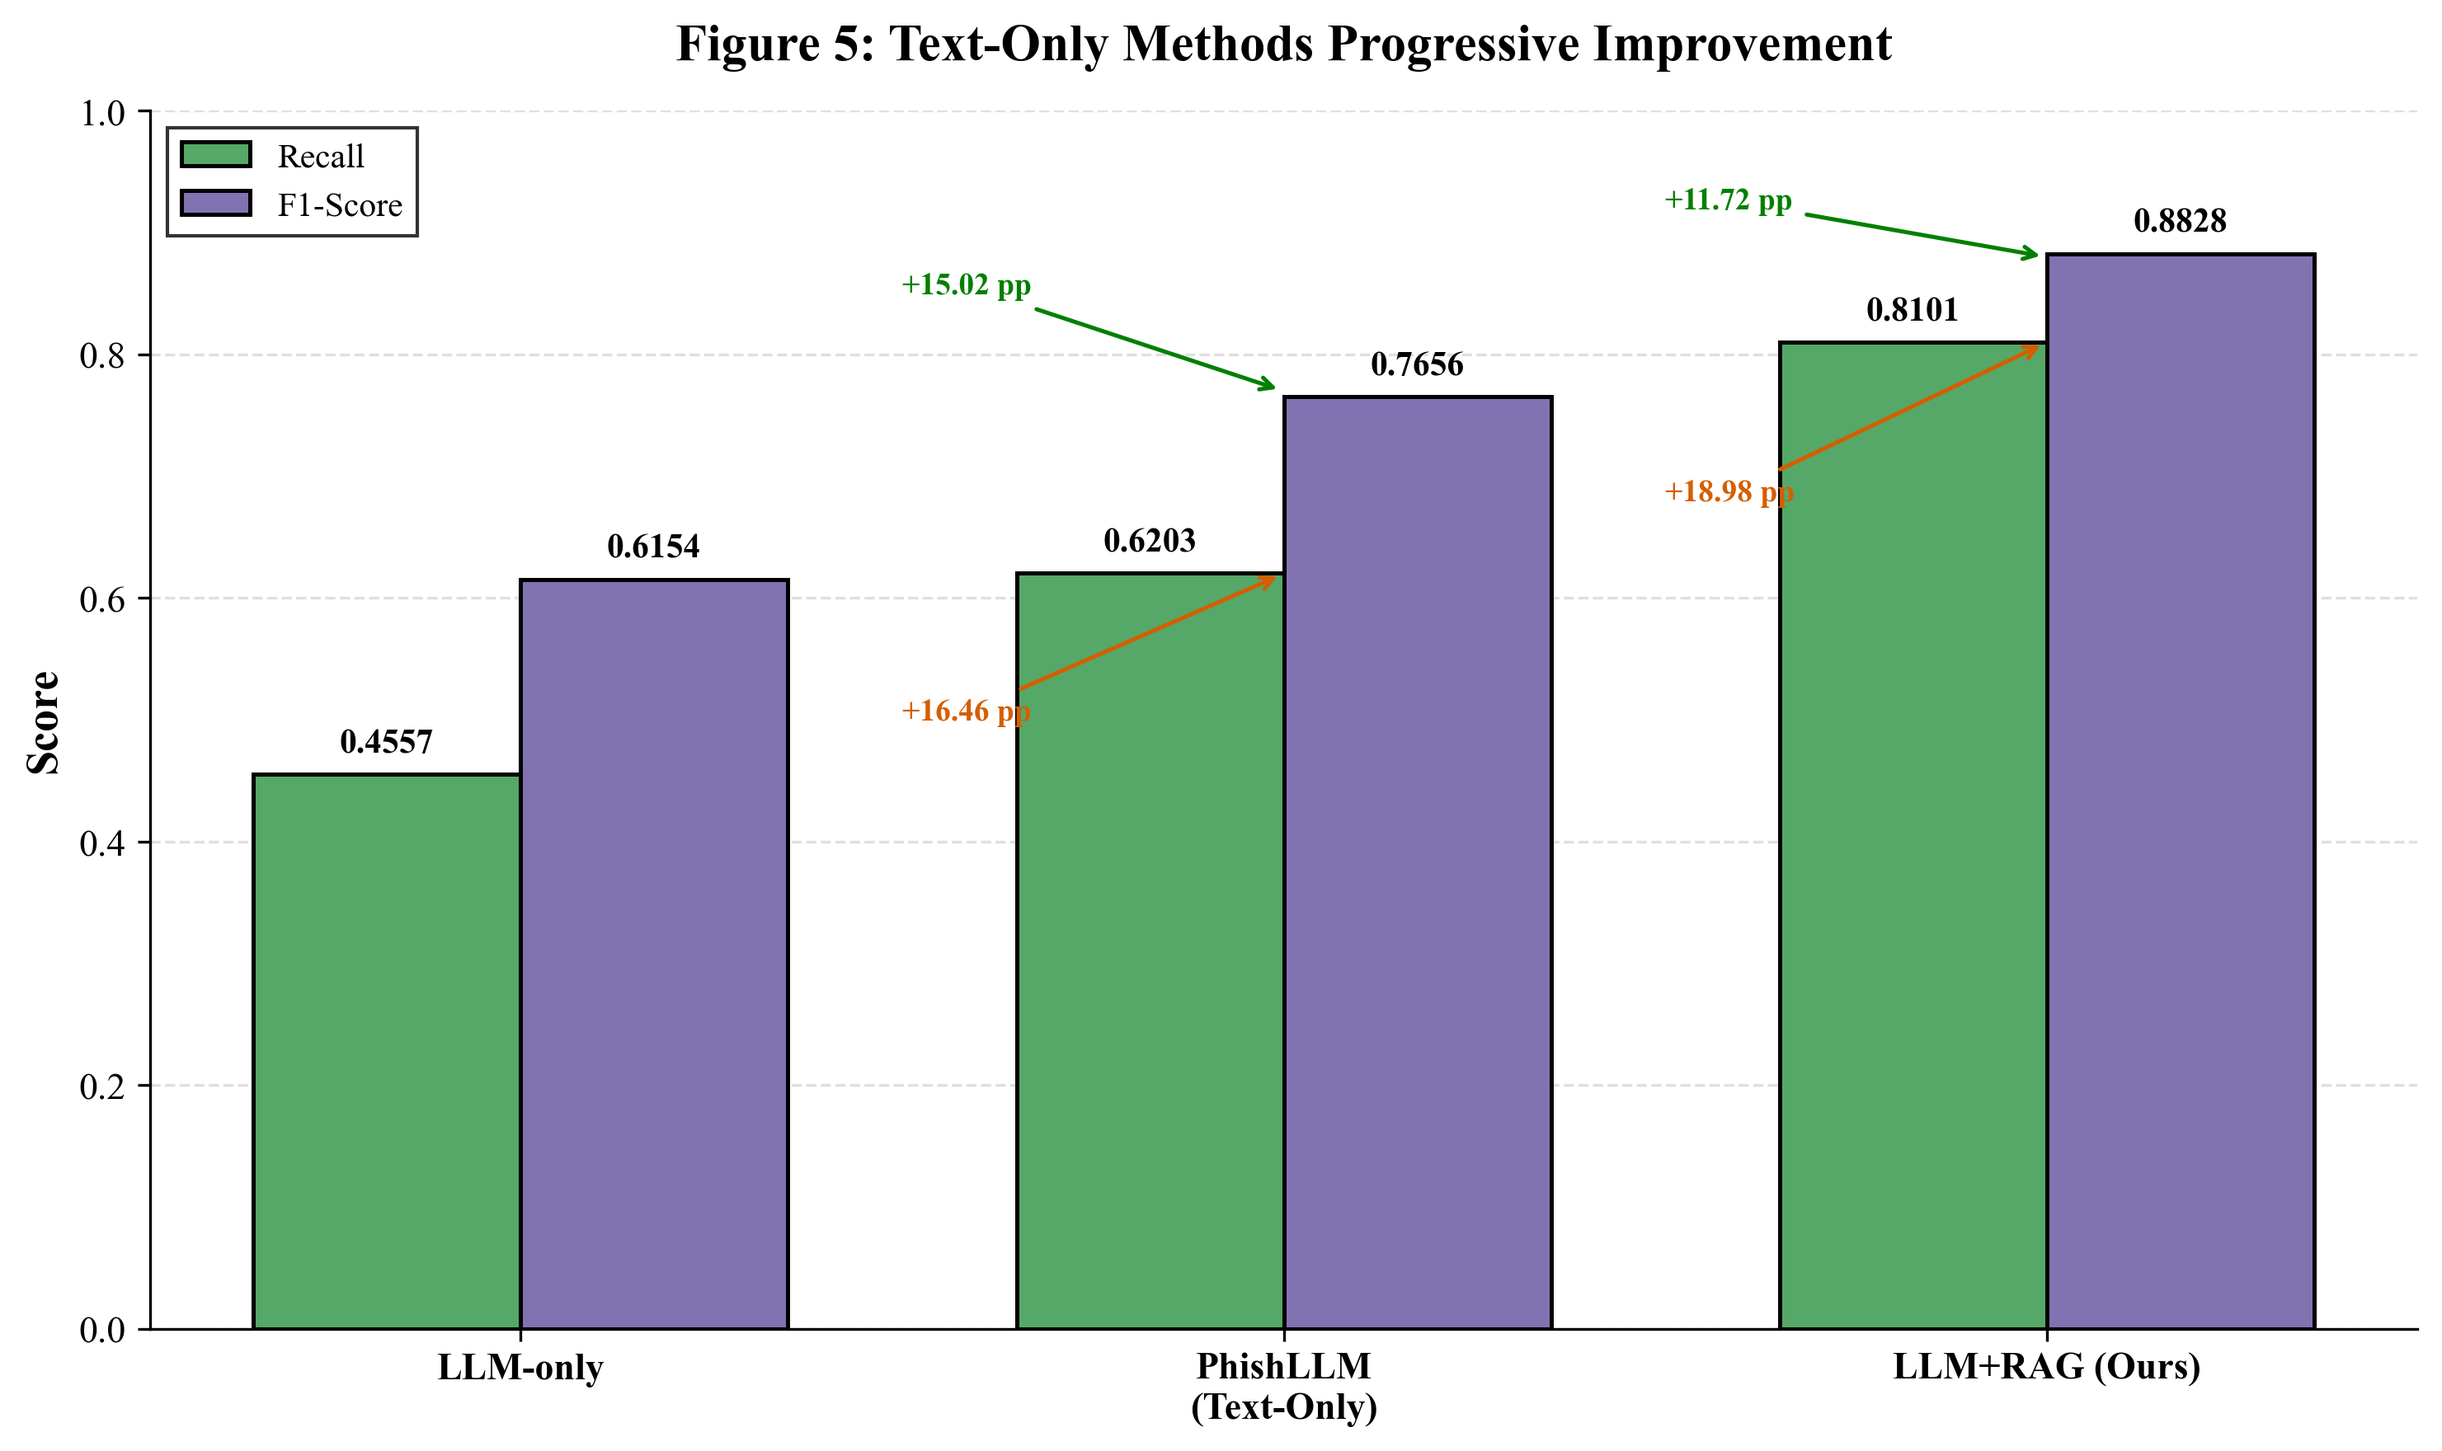
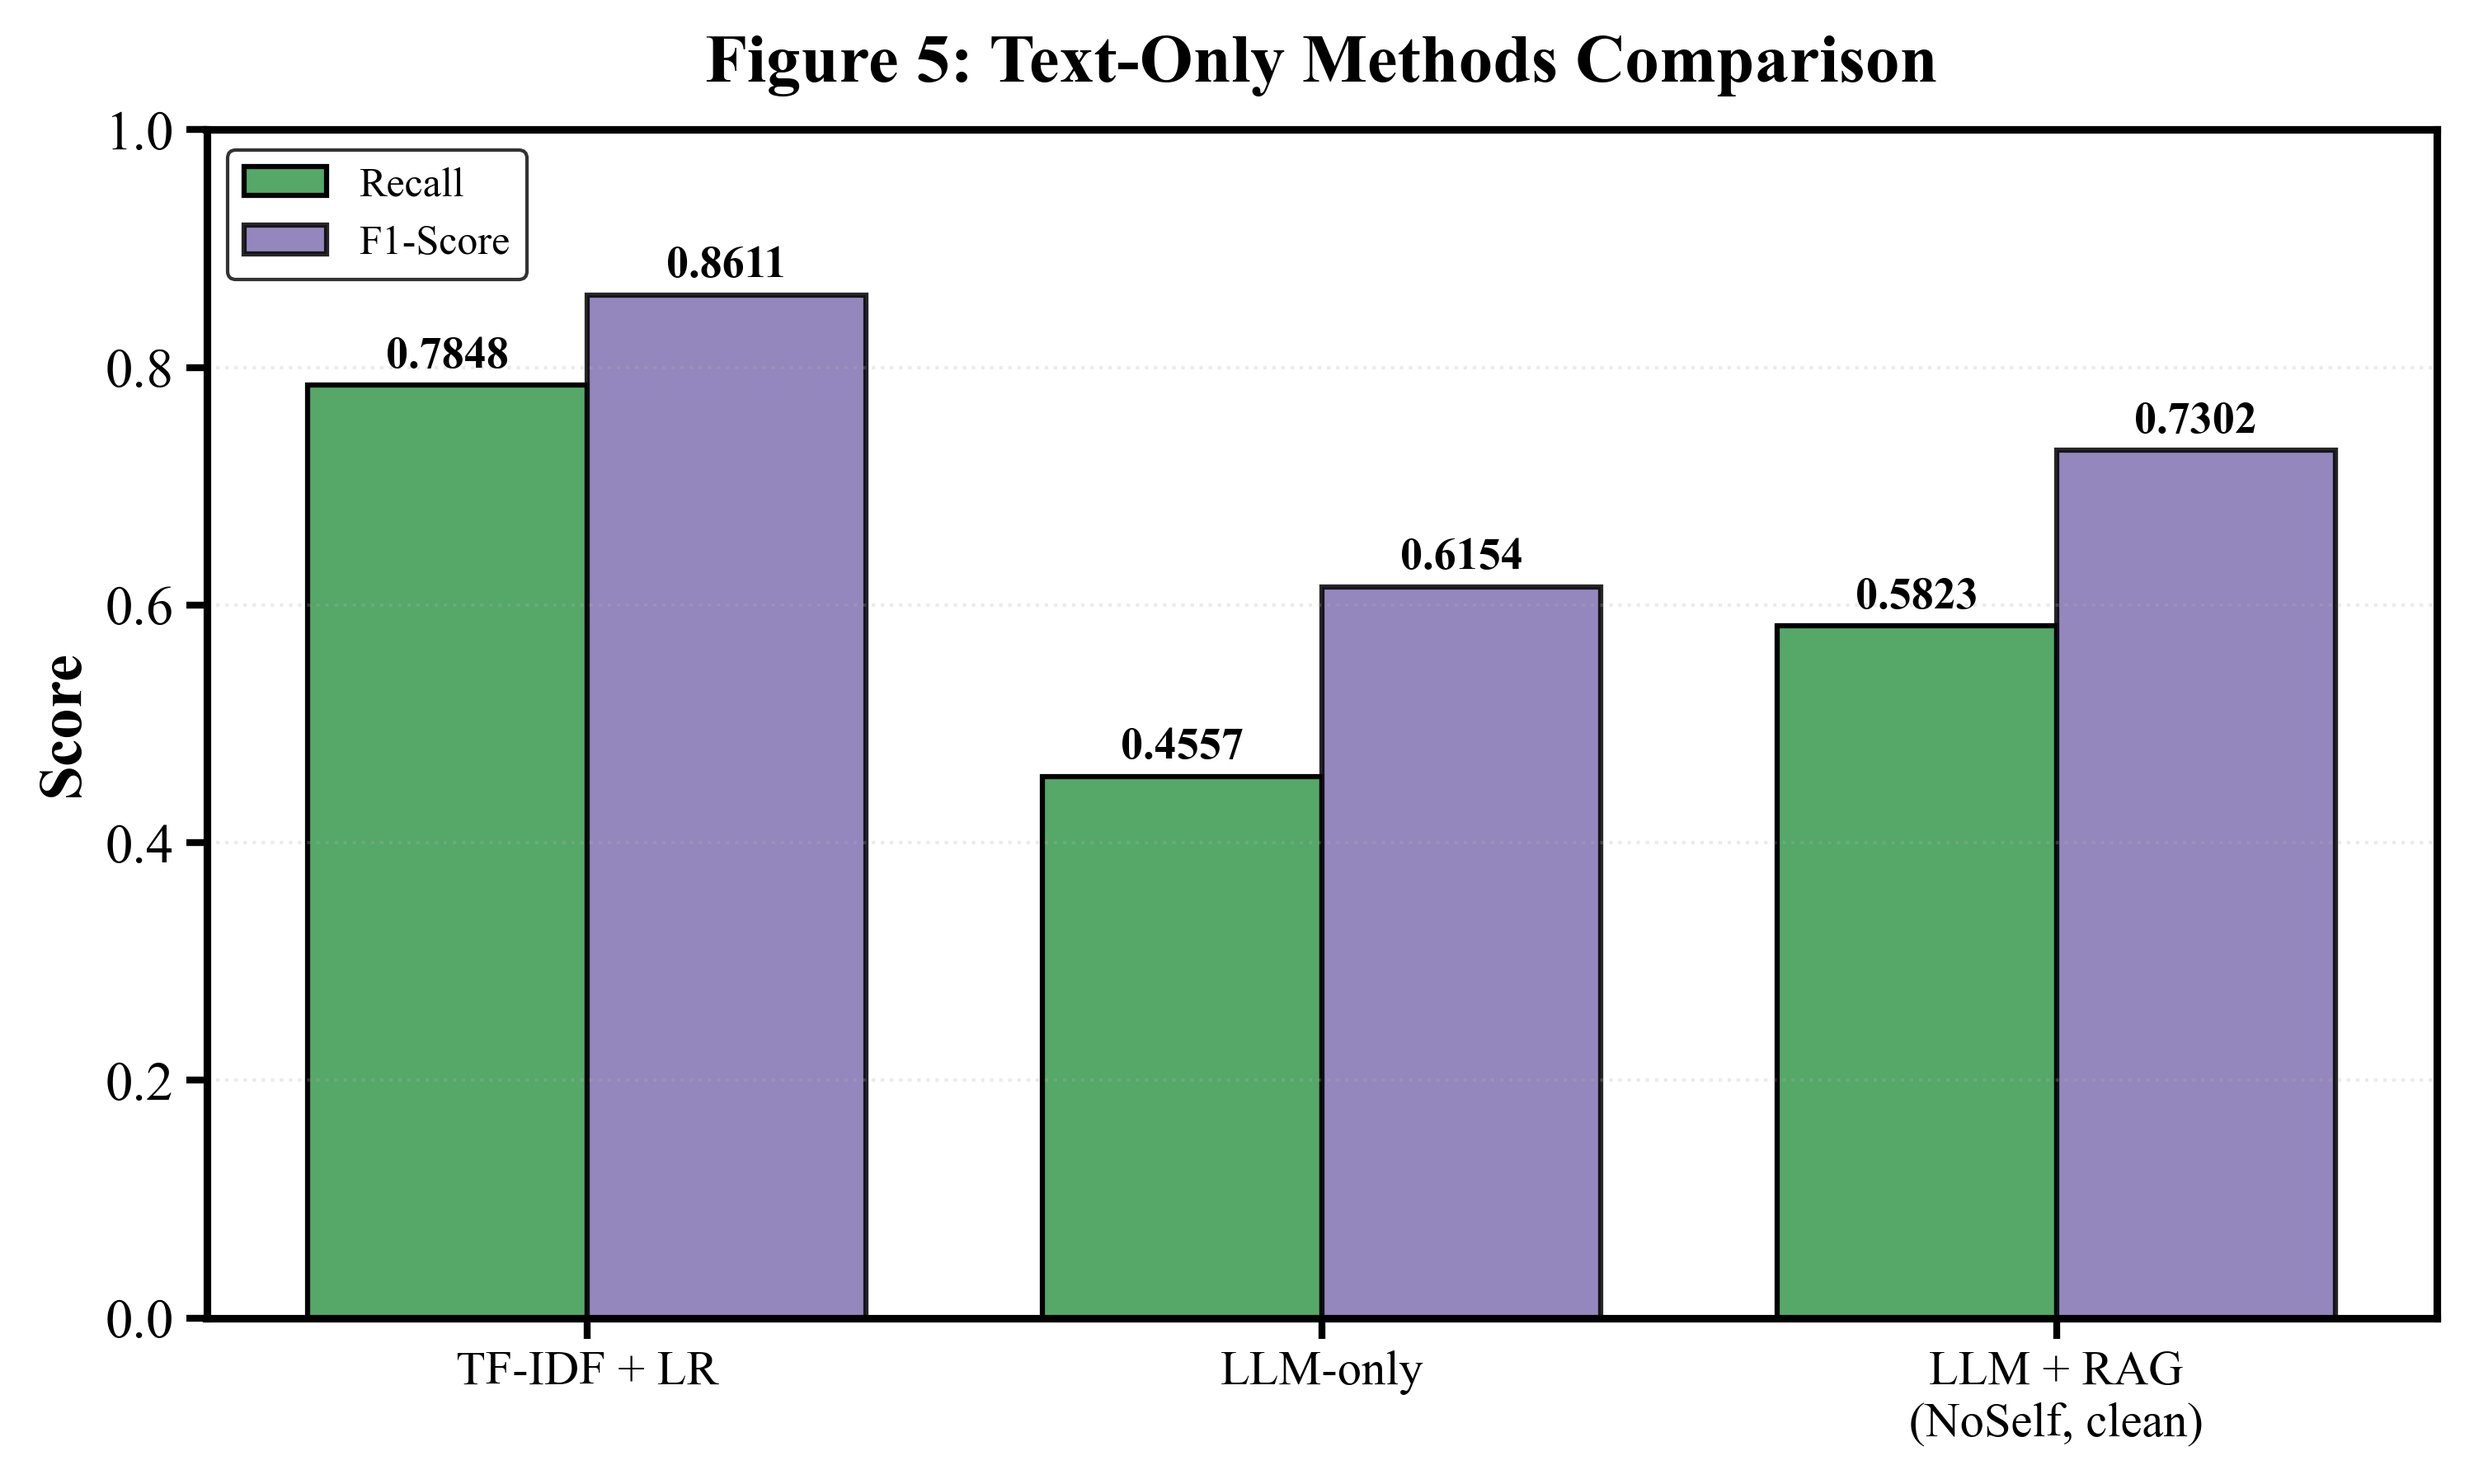
更新代码

diff --git a/tools/make_figure5_textonly.py b/tools/make_figure5_textonly.py
@@ -1,0 +1,79 @@
+#!/usr/bin/env python
+# -*- coding: utf-8 -*-
+"""
+生成 Figure5: 纯文本方法对比图
+"""
+from pathlib import Path
+import numpy as np
+import matplotlib.pyplot as plt
+
+# Global style
+plt.rcParams.update({
+    "font.family": "Times New Roman",
+    "axes.titlesize": 20,
+    "axes.titleweight": "bold",
+    "axes.labelsize": 18,
+    "axes.labelweight": "bold",
+    "xtick.labelsize": 15,
+    "ytick.labelsize": 16,
+    "legend.fontsize": 12,
+    "legend.title_fontsize": 13,
+})
+
+def style_axes(ax):
+    """thick black border like academic figures"""
+    for spine in ax.spines.values():
+        spine.set_linewidth(2.2)
+        spine.set_color("black")
+    ax.tick_params(width=2.0, length=6)
+    ax.grid(True, axis="y", linestyle=":", linewidth=1.0, alpha=0.25)
+
+# Create results directory
+Path("results").mkdir(exist_ok=True)
+
+# 纯文本方法数据（从 summary_table.txt）
+text_methods = [
+    "TF-IDF + LR",
+    "LLM-only",
+    "LLM + RAG\n(NoSelf, clean)"
+]
+
+text_rec = [0.7848, 0.4557, 0.5823]
+text_f1 = [0.8611, 0.6154, 0.7302]
+
+# Colors
+C_REC = "#55A868"  # green
+C_F1 = "#8172B2"   # purple
+
+x = np.arange(len(text_methods))
+fig, ax = plt.subplots(figsize=(10, 6))
+w = 0.38
+
+bars_rec = ax.bar(x - w/2, text_rec, width=w, color=C_REC,
+                  edgecolor="black", linewidth=1.5, label="Recall")
+bars_f1 = ax.bar(x + w/2, text_f1, width=w, color=C_F1,
+                 edgecolor="black", linewidth=1.5, alpha=0.85, label="F1-Score")
+
+ax.set_xticks(x)
+ax.set_xticklabels(text_methods, rotation=0, ha="center", fontsize=14)
+ax.set_ylim(0, 1.0)
+ax.set_ylabel("Score", fontsize=18, fontweight="bold")
+ax.set_title("Figure 5: Text-Only Methods Comparison",
+             pad=14, fontsize=20, fontweight="bold")
+
+style_axes(ax)
+ax.legend(loc="upper left", frameon=True, edgecolor="black", fontsize=12)
+
+# Value labels
+for i, v in enumerate(text_rec):
+    ax.text(i - w/2, v + 0.015, f"{v:.4f}",
+            ha="center", fontsize=13, fontweight="bold")
+for i, v in enumerate(text_f1):
+    ax.text(i + w/2, v + 0.015, f"{v:.4f}",
+            ha="center", fontsize=13, fontweight="bold")
+
+fig.subplots_adjust(bottom=0.14)
+fig.tight_layout()
+fig.savefig("results/Figure5_TextOnly_Comparison.png", dpi=300)
+print("Figure 5 generated: results/Figure5_TextOnly_Comparison.png")
+

diff --git a/tools/generate_all_figures.py b/tools/generate_all_figures.py
@@ -1,0 +1,46 @@
+#!/usr/bin/env python
+# -*- coding: utf-8 -*-
+"""
+一键生成所有图表（Figure 1-5 + table_performance.png）
+"""
+import subprocess
+import sys
+from pathlib import Path
+
+BASE = Path(__file__).resolve().parent
+PY = sys.executable
+
+scripts = [
+    ("Figure 1-4", BASE / "make_plots_final.py"),
+    ("Figure 5", BASE / "make_figure5_textonly.py"),
+    ("Table", BASE.parent / "draw_table.py"),
+]
+
+print("=" * 60)
+print("Generate All Figures")
+print("=" * 60)
+print()
+
+for name, script in scripts:
+    print(f"[{name}] Running {script.name}...")
+    try:
+        subprocess.run([PY, str(script)], check=True, capture_output=True, text=True)
+        print(f"  [OK] {name} generated successfully")
+    except subprocess.CalledProcessError as e:
+        print(f"  [ERROR] {name} generation failed")
+        print(f"    Error: {e.stderr}")
+        sys.exit(1)
+    print()
+
+print("=" * 60)
+print("All figures generated successfully!")
+print("=" * 60)
+print()
+print("Generated files:")
+print("  - results/Figure1_Performance_AllMethods.png")
+print("  - results/Figure2_Recall_F1_AllMethods.png")
+print("  - results/Figure3_Latency_AllMethods.png")
+print("  - results/Figure4_Multimodal_Fair_Comparison.png")
+print("  - results/Figure5_TextOnly_Comparison.png")
+print("  - results/table_performance.png")
+print()

diff --git a/README.md b/README.md
@@ -34,7 +34,7 @@
 │   ├── evidence/              # 证据文件（CSV）
 │   └── predictions/           # 预测结果（5个jsonl）
 ├── lab-docker/                # 靶场环境（Docker + Nginx + HTML）
-├── results/                   # 输出表格与图表（Figure1-4）
+├── results/                   # 输出表格与图表（Figure1-5 + table）
 │   └── screenshots/           # 靶场页面截图（用于报告）
 ├── report/                    # 课程设计报告（docx/pdf）
 ├── demo.ps1                   # 验收演示脚本
@@ -96,8 +96,8 @@ powershell -File demo.ps1
 ```
 
 输出：
-- `results/summary_table.txt`
-- `results/Figure1_*.png` ~ `results/Figure4_*.png`
+- `results/summary_table.txt` - 性能对比表
+- `results/Figure1_*.png` ~ `results/Figure5_*.png` - 对比图表
 
 ---
 
@@ -125,17 +125,37 @@ python eval/summary_table.py
 
 ---
 
-## 7. 生成论文图表（Figure 1–4）
+## 7. 生成论文图表（Figure 1–5）
 
+### 7.1 一键生成所有图表（推荐）
+```powershell
+python tools/generate_all_figures.py
+```
+
+生成所有图表：
+- `results/Figure1_Performance_AllMethods.png` - 综合性能对比（Acc/Prec/Rec/F1）
+- `results/Figure2_Recall_F1_AllMethods.png` - 召回率与F1对比
+- `results/Figure3_Latency_AllMethods.png` - 推理延迟对比
+- `results/Figure4_Multimodal_Fair_Comparison.png` - 多模态方法公平对比
+- `results/Figure5_TextOnly_Comparison.png` - 纯文本方法对比
+- `results/table_performance.png` - 性能对比表格
+
+### 7.2 单独生成各图表
+
+生成所有方法对比图（Figure 1-4）：
 ```powershell
 python tools/make_plots_final.py
 ```
 
-生成：
-- `results/Figure1_Performance_AllMethods.png`
-- `results/Figure2_Recall_F1_AllMethods.png`
-- `results/Figure3_Latency_AllMethods.png`
-- `results/Figure4_Multimodal_Fair_Comparison.png`
+生成纯文本方法对比图（Figure 5）：
+```powershell
+python tools/make_figure5_textonly.py
+```
+
+生成表格图：
+```powershell
+python draw_table.py
+```
 
 ---
 
